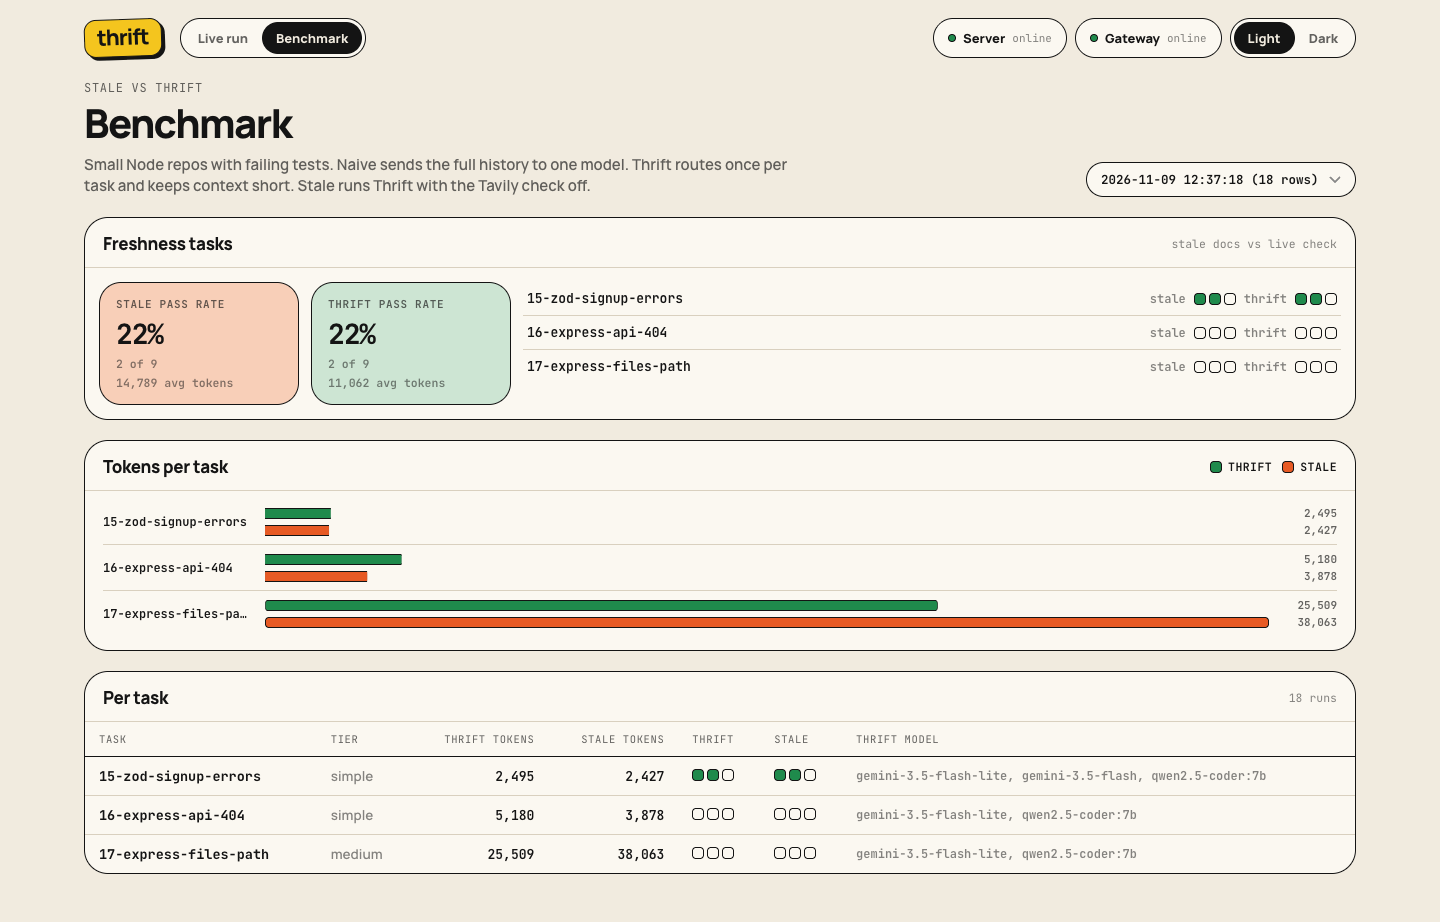
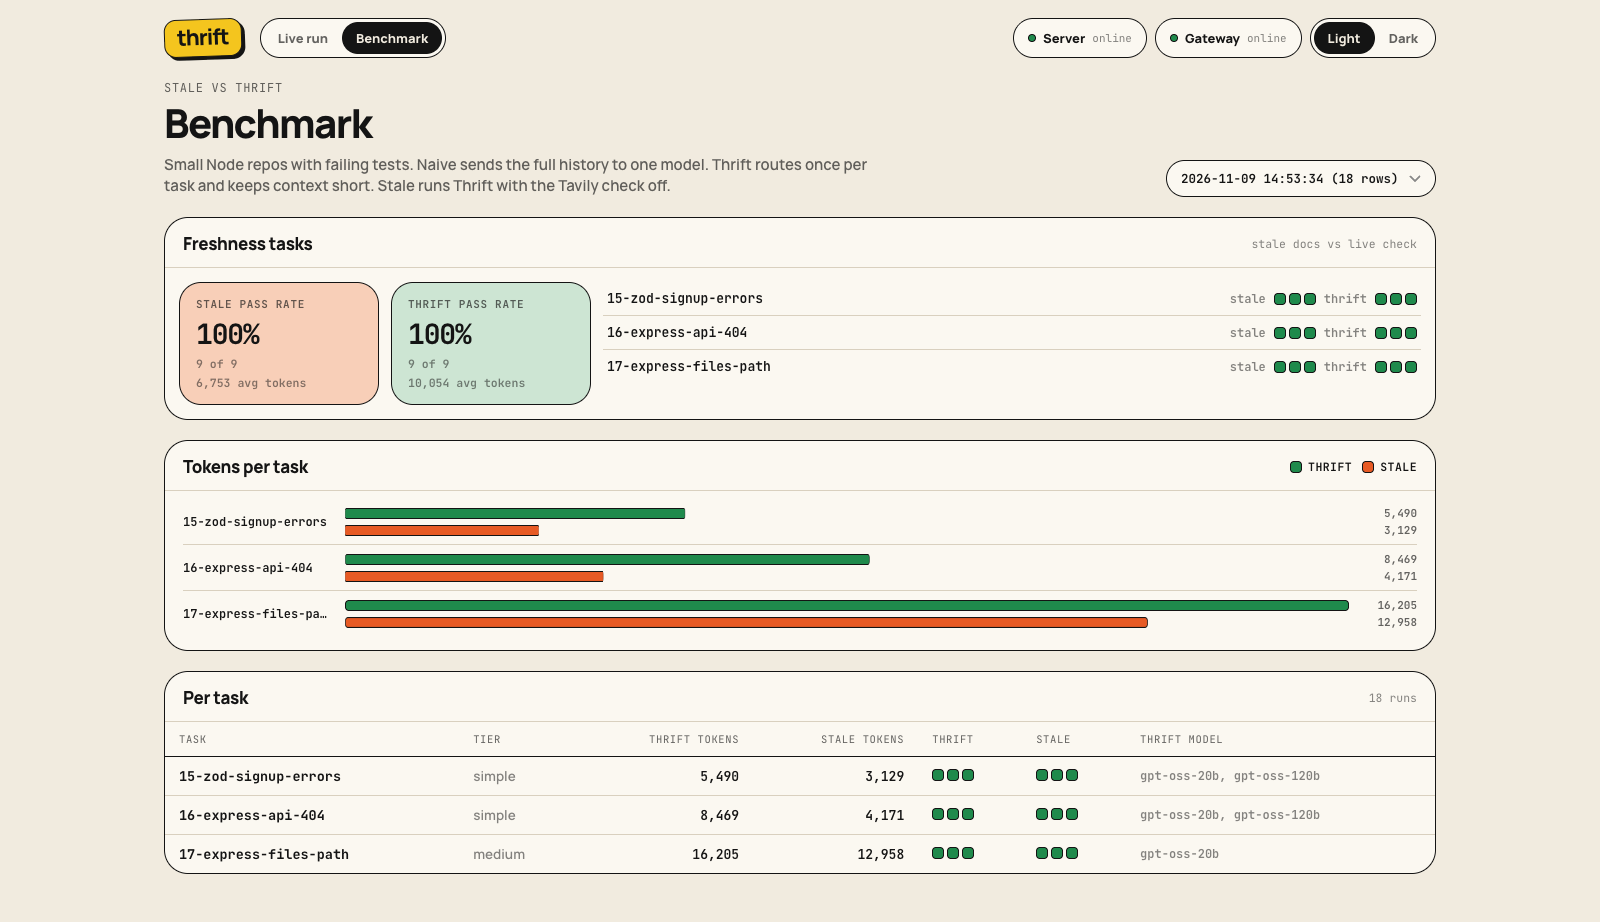
Publish the paired benchmark in the docs

diff --git a/README.md b/README.md
@@ -1,7 +1,7 @@
 <h1 align="center">Thrift</h1>
 
 <p align="center">
-  <strong>A coding agent that gets the job done on the fewest tokens.</strong>
+  <strong>A coding agent that spends fewer tokens on the fix.</strong>
 </p>
 
 <p align="center">
@@ -29,57 +29,55 @@
 </p>
 
 <p align="center">
-  <img src="docs/demo/benchmark-shared.png" alt="Benchmark dashboard comparing naive and thrift on four shared tasks" width="900" />
+  <img src="docs/demo/benchmark-shared.png" alt="Benchmark dashboard comparing naive and thrift on 16 shared tasks" width="900" />
 </p>
 
 ## Results
 
-The Groq comparison has valid results for four shared tasks (01-04, all simple). Seven naive attempts hit the provider quota. Those attempts left tasks 05 and 06 without a valid naive result.
+On 17 shared tasks, Thrift used **68% fewer tokens per run**. Naive passed 24/24 valid runs and Thrift passed 31/31.
 
-| Mode | Valid runs | Pass rate | Avg tokens | Avg model cost | Avg time |
+| Mode | Passed / valid runs | Avg tokens | Avg model cost | Avg time |
+|---|---:|---:|---:|---:|
+| naive | 24/24 | 11,126 | $0.00176 | 29.9 s |
+| thrift | 31/31 | 3,579 | $0.00064 | 22.2 s |
+
+The comparison pools the November 7 runs on tasks 01-06 and the November 9 runs on tasks 05-17. It reports means per valid run, so earlier tasks with more repeats carry more weight. The benchmark excludes 8 attempts stopped by provider errors and omits 4 missing gateway costs from the cost averages. The earlier fallback and freshness experiments are recorded separately in the [journal](docs/journal.md). Thrift used more tokens on tasks 16 and 17. Both involved the freshness check, and task 17 also used more coding tokens.
+
+### By difficulty
+
+| Tier | Tasks | Naive pass | Naive avg tokens | Thrift pass | Thrift avg tokens |
 |---|---:|---:|---:|---:|---:|
-| naive | 11 | 100% | 11,376 | $0.00159 | 28.7 s |
-| thrift | 12 | 100% | 1,621 | $0.00023 | 1.7 s |
+| Simple | 7 | 14/14 | 10,630 | 18/18 | 2,595 |
+| Medium | 7 | 7/7 | 10,758 | 10/10 | 3,900 |
+| Complex | 3 | 3/3 | 14,299 | 3/3 | 8,416 |
 
-Thrift used 86% fewer tokens per run on the shared tasks. The cost average excludes one thrift run with missing gateway cost. These figures come from the November 7 batch.
-
-### Coverage by difficulty
-
-This table combines the November 7 batch and the November 9 fallback batch. Cells report tasks covered, passing runs over valid runs, and average tokens per run.
-
-| Tier | Tasks | Naive | Thrift |
-|---|---:|---|---|
-| Simple | 7 | 4 tasks, 11/11 pass, 11,376 tokens | 7 tasks, 17/17 pass, 2,447 tokens |
-| Medium | 7 | Pending | 7 tasks, 9/9 pass, 4,910 tokens |
-| Complex | 3 | Pending | 3 tasks, 2/3 pass, 8,818 tokens |
-| All | 17 | 4 tasks, 11/11 pass, 11,376 tokens | 17 tasks, 28/29 pass, 3,870 tokens |
-
-Groq returned HTTP 403 on November 9, so the baseline stopped after the first attempt. Of tasks 07-17, ten passed on Gemini. Task 13 failed on Ollama after Gemini also errored. The fallback batch averaged 6,960 tokens.
+Reproduce the comparison with the source files:
 
 ```bash
 cd agent
 npm run summarize -- \
   ../bench/results/run-2026-11-07T06-17-12-387Z.jsonl \
-  ../bench/results/run-2026-11-09T12-27-03-719Z.jsonl \
-  ../bench/results/run-2026-11-09T12-28-21-480Z.jsonl
+  ../bench/results/run-2026-11-09T15-07-00-878Z.jsonl \
+  ../bench/results/run-2026-11-09T15-28-44-567Z.jsonl \
+  ../bench/results/run-2026-11-09T15-38-08-261Z.jsonl
 ```
 
 ## Why
 
-Most coding agents send the whole conversation to one big model on every step. On a two line bug fix that means listing files, reading them one by one, writing, running tests and then a closing sentence, each step paying again for everything before it. Most of those tokens buy nothing.
+The benchmark baseline sends the full history to one model on every turn. Even a small fix can take separate turns to list files, read them, make an edit and run tests. Each turn sends the previous work back to the model.
 
-Thrift treats tokens as a budget. Easy tasks go to a small model, the files the task needs are in the first prompt, old tool output is cut, and the agent stops the moment the tests go green.
+Thrift sends relevant files in the first prompt and trims old tool output. It runs tests after an edit and stops when they pass, unless the task also requests Git actions.
 
 ## How it saves tokens
 
 | Technique | Where | What it saves |
 |---|---|---|
 | Complexity routing | Bifrost complexity analyzer + CEL routing rules | Simple tasks run on gpt-oss-20b instead of gpt-oss-120b |
-| One routing decision per task | `agent/src/index.ts` | The first request carries only the task. Later steps are pinned to that model, so test output never gets classified as a "medium" task |
+| One routing decision per task | `agent/src/index.ts` | The gateway classifies the task message. Later steps stay on the responding model. |
 | Context up front | `agent/src/context.ts` | Relevant files ranked and sent in the first prompt, no list and read round trips |
 | History trimming | `agent/src/context.ts` | Old tool output becomes a one line stub, and a file's old copy is dropped once the model writes a new one |
-| Agent runs the tests | `agent/src/index.ts` | After an edit the agent runs `npm test` itself and stops when it passes, skipping two model calls |
-| Semantic cache | Bifrost `semantic_cache` plugin on Redis | Repeated requests come back in about a millisecond for free |
+| Agent runs the tests | `agent/src/index.ts` | Thrift runs `npm test` after an edit and can stop without another model call. |
+| Semantic cache | Bifrost `semantic_cache` plugin on Redis | Repeated requests can reuse cached responses. Each benchmark attempt uses a separate cache key. |
 
 ## What Bifrost does
 
@@ -103,28 +101,24 @@ Before the first coding step, Thrift:
 1. reads the installed package versions from `node_modules`,
 2. asks a small model which facts about those versions the task depends on,
 3. checks each one with a Tavily search,
-4. scores it from 0 (out of date) to 1 (still true) and writes the correct usage into the context.
+4. scores each claim as outdated (0), unknown (0.5) or current (1), and adds supported corrections to the context.
 
 Repos without dependencies skip the check and pay nothing. Private mode skips it too, so the task never leaves the machine.
 
 ### Freshness results
 
-Both modes passed 2 of 9 runs on tasks 15-17 using the fallback chain. The table uses the token counts recorded by the runner.
+The November 9 rerun used the stricter evidence check on tasks 15-17. Both modes passed 9/9. Stale is Thrift with freshness disabled.
 
 | Task | Stale pass | Thrift pass | Stale avg tokens | Thrift avg tokens |
 |---|---:|---:|---:|---:|
-| 15 / Zod error access | 2/3 | 2/3 | 2,427 | 2,495 |
-| 16 / Express API 404 | 0/3 | 0/3 | 3,878 | 5,180 |
-| 17 / Express file path | 0/3 | 0/3 | 38,063 | 25,509 |
-| All | 2/9 | 2/9 | 14,789 | 11,062 |
+| 15-zod-signup-errors | 3/3 | 3/3 | 3,129 | 5,490 |
+| 16-express-api-404 | 3/3 | 3/3 | 4,171 | 8,469 |
+| 17-express-files-path | 3/3 | 3/3 | 12,958 | 16,205 |
+| All | 9/9 | 9/9 | 6,753 | 10,054 |
 
-The check caught the obsolete Zod accessor in two attempts, but the baseline also passed those attempts. On Express, the judge suggested invalid wildcard patterns or accepted the wrong parameter type. Two checks stopped on a gateway error. One of those runs omitted 284 tokens from a successful call before the error. Future runs count those tokens and mark the incomplete check.
+The check ran 15 successful searches across 5 of 9 thrift runs. The judge accepted 6 claims as current and left 9 unknown. It added no corrections in this batch. Freshness calls averaged 3,513 tokens per thrift run. There was no pass-rate gain, and checking the evidence increased token use. One stale run fell back to Gemini, so the recorded cost gap also reflects provider choice.
 
-The lower recorded thrift average on task 17 includes early failures on Ollama. All three stale attempts failed at the 15-step cap on Gemini Flash-Lite. With different coding models and incomplete checks, this batch cannot isolate a token savings effect from Tavily.
-
-After this batch, the verifier began requiring a source URL and an excerpt present in the retrieved text. Claims without this evidence are marked unknown, and their corrections stay out of the coding prompt. The stricter verifier still needs a new benchmark.
-
-See the [freshness dashboard](docs/demo/bench.png) and the [November 9 stale/thrift runs](bench/results/run-2026-11-09T12-37-18-207Z.jsonl).
+See the [freshness dashboard](docs/demo/bench.png) and [raw runs](bench/results/run-2026-11-09T14-53-34-479Z.jsonl).
 
 ## Demo scenarios
 
@@ -134,7 +128,7 @@ Each scene below was recorded on the live dashboard. The numbers are from those 
 |---|---|
 | Fallback | Task 01 (percent coupon). Groq failed on step 1, so Bifrost answered with gemini-3.5-flash-lite. The agent pinned that model for step 2, which wrote the fix. 2,709 tokens, $0.00097, 2 steps |
 | Budget | A run on the booking ranges task with a tiny budget on the virtual key. Step 1 went through on gpt-oss-120b, step 2 got a 402 "Budget exceeded" from the gateway and the agent stopped cleanly |
-| Private | Task 02 (pagination) with `--private`. One step on qwen2.5-coder:7b through the `thrift-private` key, 992 tokens, $0 |
+| Private | Task 02 (pagination) with `--private`. One step on qwen2.5-coder:7b through the `thrift-private` key, 973 tokens, $0 |
 | Approval | The task asked for `git add`, `git commit` and `git push origin main`. Each command waited for a yes or no. With push approved the run took 4 steps and 3,984 tokens. With push denied the agent stopped at that point (3 steps, 2,874 tokens, $0.00023) |
 
 <p align="center">
@@ -148,28 +142,20 @@ Each scene below was recorded on the live dashboard. The numbers are from those 
 
 The terminal output of both approval runs is in `docs/demo/approval-approve.txt` and `docs/demo/approval-deny.txt`.
 
-The pitch deck is available as [HTML](docs/pitch/index.html) and [PDF](docs/pitch/Thrift.pdf). The [demo script](docs/demo/script.md) covers the recording order and narration.
+The [submission notes](docs/submission.md) cover the presentation and the [demo script](docs/demo/script.md) describes the recording.
 
 ## Architecture
 
-```
-            task
-              |
-        +-----v------+        events         +-------------+
-        |   agent    | --------------------> |  dashboard  |
-        | (Node, TS) |                       | Vite, React |
-        +-----+------+                       +------+------+
-              |  chat + tool calls                  | logs, cost
-        +-----v---------------------------------------v---+
-        |                     Bifrost                      |
-        |  complexity router · routing rules · fallbacks   |
-        |  virtual keys · budgets · semantic cache · MCP   |
-        +--+-----------+-----------+-----------+----------+
-           |           |           |           |
-         Groq       Gemini      Ollama     MCP server
-     gpt-oss-20b  3.5 flash   qwen2.5-   (workspace tools)
-     gpt-oss-120b             coder:7b
-                                            Tavily <- freshness check
+```mermaid
+flowchart LR
+    Task["Task and workspace"] --> CLI["Thrift CLI"]
+    CLI -->|"Model and tool requests"| Bifrost["Bifrost gateway"]
+    CLI -->|"Version claims"| Tavily["Tavily Search"]
+    CLI -->|"Run events"| Dashboard["Local dashboard"]
+    Bifrost -->|"Routing and cost logs"| Dashboard
+    Bifrost -->|"Route or fall back"| Models["Groq / Gemini / Ollama"]
+    Bifrost -->|"Approved calls"| MCP["MCP workspace tools"]
+    Bifrost -->|"Cache"| Redis["Redis"]
 ```
 
 | Part | Path | Role |

diff --git a/docs/submission.md b/docs/submission.md
@@ -20,14 +20,14 @@ The official path is **Manage → Submissions → Problem Statements & Prototype
 
 | Requirement | Evidence | Status |
 |---|---|---|
-| Complete real development tasks with fewer tokens | Protected tests and raw run files. Four shared tasks used 11,376 naive and 1,621 thrift tokens per run, with every valid run passing. | Demonstrated on tasks 01-04. Paired runs on 05-17 await Groq access. |
+| Complete real development tasks with fewer tokens | Protected tests and raw run files. 17 shared tasks averaged 11,126 naive and 3,579 thrift tokens per run. | 24/24 naive and 31/31 thrift valid runs passed. |
 | Continue through a provider outage | The recorded coupon run moves from Groq to Gemini, pins the responding model, and passes the tests. | Demonstrated |
 | Enforce individual limits | A Bifrost virtual key returns HTTP 402, and the agent stops. | Demonstrated |
 | Keep confidential work local | The private virtual key allows Ollama only. A local pagination run went from two failing tests to two passing tests. | Demonstrated on the fixture |
 | Require approval for writes, shell and Git | The CLI shows the proposed change or command before execution. A rejected push stopped the recorded run. | Demonstrated against a local test remote |
-| Use Tavily and Bifrost together | The preflight identifies version-sensitive claims, searches live sources, scores each claim and includes supported corrections in the prompt. | Working prototype. The fallback batch tied 2/9 and surfaced incorrect Express verdicts. |
+| Use Tavily and Bifrost together | The preflight identifies version-sensitive claims, searches live sources, scores each claim and includes supported corrections in the prompt. | The evidence-gated rerun tied 9/9. Freshness used more tokens in that sample. |
 | Ship a working public prototype | The repository is already public. The README documents setup and reproduction. | Local changes still need the owner's approval before push. |
-| Include the pitch deck | Problem, solution, architecture, implementation and prototype. Show both partner integrations. | Content below. PowerPoint production follows review. |
+| Include the pitch deck | Problem, solution, architecture, implementation and prototype. Show both partner integrations. | Slide plan below. The submission team assembles and uploads the PPT. |
 
 The public criteria are innovation, technical execution, problem solving and impact, use of AI, user experience, and scalability. The public page gives no weights. Show the measurable token savings on the shared tasks, the safety controls in the demo, and the separate limits of the freshness experiment.
 
@@ -35,12 +35,14 @@ The public criteria are innovation, technical execution, problem solving and imp
 
 | Slide | Point | Visual or evidence |
 |---|---|---|
-| 1 / Thrift | Fix the bug with less repeated context. Name the primary challenge and team. | One laptop mockup with the live dashboard. |
+| 1 / Thrift | Fix the bug with less repeated context. Name the primary challenge and team. | One cropped frame from the live dashboard. |
 | 2 / The problem | A small patch can take repeated file reads, tool calls and full prompt resends. Version changes can also break an otherwise reasonable fix. | Baseline request sequence beside the same task with context supplied up front. |
 | 3 / Architecture | CLI builds context and sends the task through Bifrost. Bifrost routes models and exposes MCP tools. The CLI approves and executes calls, runs tests, and emits dashboard events. | Four boxes. Draw the optional Tavily preflight as a separate branch. |
 | 4 / Bifrost controls | Show fallback, the 402 budget stop, local Ollama, and a denied push. | Use four small crops or one main image with three callouts. |
-| 5 / Benchmark | On tasks 01-04, every valid run passed. Report 11,376 vs 1,621 tokens per run and the number of valid runs. Separate the 10/11 fallback coverage for tasks 07-17. | One horizontal bar comparison with sample sizes and a footnote on quota exclusions. Replace figures only after a valid new batch. |
-| 6 / Tavily evidence | Installed version, claim, live source, freshness score and correction. The fallback series tied 2/9. | Use the Zod accessor example and the freshness panel. Keep the Express failure visible as a limitation. |
+| 5 / Benchmark | Report 11,126 vs 3,579 tokens per valid run across 17 shared tasks, with pass counts 24/24 and 31/31. | One horizontal bar comparison with sample sizes and a footnote on quota exclusions. Replace figures only after a valid new batch. |
+| 6 / Tavily evidence | Installed version, claim, live source and freshness status. The evidence-gated rerun tied 9/9. | Show the confirmed Zod claim and the linked changelog. State that this sample showed no pass-rate gain. |
 | 7 / Prototype and next measurement | Run from the terminal, inspect the dashboard, and reproduce the benchmark. Link the public repo and video. | A clean screenshot and short run instructions. |
 
 Use screenshots from the actual desktop dashboard in mockups. Keep text such as token counts, model names, and the approval state legible at slide size. The dashboard is web-based. The coding agent runs in the terminal.
+
+The earlier HTML and PDF in `docs/pitch/` reflect the first four-task comparison. Use the current README and this plan for the submission.

diff --git a/docs/demo/script.md b/docs/demo/script.md
@@ -1,14 +1,15 @@
 # Thrift demo video
 
-Target length: 2 minutes 35 seconds. Record the terminal and dashboard side by side where possible. Use a separate fixture for each scene. Keep the gateway setup page and environment file out of the recording.
+The final recording runs for 2 minutes 28 seconds. It shows the local dashboard and tests from the benchmark fixtures. The outage, budget and approval scenes replay recorded runs. The approval scene used a local bare Git remote.
 
 | Time | On screen | Narration |
 |---|---|---|
-| 0:00-0:17 | Start on the live dashboard with the percent-coupon task and its failing test. | "Thrift fixes small bugs in Node repos. It starts with the relevant files, asks Bifrost to pick a model, and runs the tests after an edit. It stops when they pass." |
-| 0:17-0:44 | Show the fallback run. Open step 1, point to the Gemini model and fallback badge, then show the same model on step 2 and the green test result. | "For this scene we forced Groq to fail. Bifrost sent the request to Gemini. Thrift pinned the model that answered and finished the fix on the next step." |
-| 0:44-1:04 | Show the budget run. Open the first completed step, then show the 402 and stopped state on the next step. | "Bifrost enforces a budget on the virtual key. Here it let the first step through. The next request got a 402, and Thrift stopped." |
-| 1:04-1:27 | Show the private pagination run. Point to the private virtual key, Ollama model and passing tests. | "For the private fixture, the key only allows local Ollama. The pagination fix passed in one step, with no cloud model or Tavily request." |
-| 1:27-1:54 | Show the approval terminal at the push prompt. Enter `n`. Show the stopped run and the unchanged log of the local bare remote. | "Thrift asks before running commands. I let it add and commit the change, then declined the push. The local commit is there. The remote stayed at its starting commit." |
-| 1:54-2:35 | Open Benchmark. Select the comparison files, point to coverage and pass rates, then show the Express 5 example or the freshness evidence from the run. | "We grade both modes with the same protected tests. On four shared tasks, every valid run passed. Naive averaged 11,376 tokens and Thrift averaged 1,621. In the separate Tavily comparison, both modes passed two of nine runs under fallback. Tavily caught the old Zod accessor, but some Express verdicts were wrong. The dashboard shows the results for each task." |
+| 0:00-0:17 | Thrift cover, followed by the dashboard and CLI flow. | Thrift is a terminal coding agent with a browser dashboard. It reads the relevant files, asks Bifrost to route the task, and checks its changes against the repository's tests. |
+| 0:17-0:39 | Coupon run with the Gemini fallback, followed by the pinned model. | In this recorded test, we deliberately failed the primary provider. Bifrost sent the coupon fix to Gemini. Thrift kept the same model for the next step, applied the change, and the tests passed. |
+| 0:39-0:57 | Virtual key budget stop and HTTP 402. | Each Bifrost virtual key can carry its own spending limit. This key had room for the first request. The next request returned 402, and Thrift stopped. |
+| 0:57-1:19 | Private pagination run on local Ollama with before and after test counts. | This pagination task starts with two failing tests. Private mode sends the task through a key restricted to local Ollama. The local model fixed the bug in one step, and both tests passed. |
+| 1:19-1:41 | A rejected push in the dashboard, with the original terminal excerpt. | Thrift asks before writes and shell commands. In this recorded run we approved the local add and commit. We declined git push. The agent stopped, and the test remote stayed at its starting commit. |
+| 1:41-2:04 | Paired benchmark and pass counts. | On 17 shared tasks, the baseline averaged 11,126 tokens per run. Thrift averaged 3,579, 68 percent fewer. Naive passed 24 of 24 valid runs. Thrift passed 31 of 31. |
+| 2:04-2:28 | Stale and thrift results, then the Zod claim with its source link. | Tavily searches for evidence about the installed library version. Here the dashboard cites the Zod changelog. In the rerun, both modes passed all nine attempts. The freshness check used more tokens, and we did not measure a pass rate gain. |
 
-Before recording, read the Results section of the README and use only the figures for the selected files. Keep the scope on screen if either comparison is partial. Show the existing screenshots if you are using the recorded fallback or budget result. The approval scene uses a local bare remote.
+The [README](../../README.md#results) links the exact raw result files used in the recording.

diff --git a/docs/journal.md b/docs/journal.md
@@ -273,3 +273,9 @@ The freshness rerun finished at 9/9 in each mode. Stale averaged 6,753 tokens an
 The paired run stopped after task 13 when the local services went away. Its 18 completed rows all passed. Bifrost, Ollama and the dashboard were restarted, and the runner resumed at task 14 in a new file. A fixture check independently confirmed that all 17 start with failing tests and pass after applying the reference patch.
 
 On task 16, thrift used 7,394 tokens and naive used 5,245. Thrift's 2,258 freshness tokens explain the gap. On task 17, naive returned a provider 429 at the fourteenth request. The gateway identified Groq's 8,000 tokens-per-minute limit. The raw row is retained and excluded from the comparison. One repeat is queued after the thrift attempt and a cooldown.
+
+After the cooldown, naive passed task 17 in a separate run with 14,188 tokens and nine steps. Thrift passed with 20,993 tokens, including 4,063 for freshness, and seven coding steps. Both solved the fixture. Thrift used more tokens on this task even after accounting for its freshness calls.
+
+The pooled paired suite covers all 17 tasks. Naive passed 24/24 valid attempts, averaging 11,126 tokens, $0.00176 and 29.9 seconds. Thrift passed 31/31, averaging 3,579 tokens, $0.00064 and 22.2 seconds. That is 68% fewer tokens per valid run. Eight provider errors are excluded. Four thrift rows have missing costs and are excluded only from the cost average. The manifest lists the four source batches so the dashboard and README use the same rows.
+
+The presentation handoff is a seven-slide brief with exact English copy, a layout plan and PNG crops of the real UI. The team will assemble the PowerPoint file. The revised demo uses the paired dashboard and the fresh Tavily rerun.
